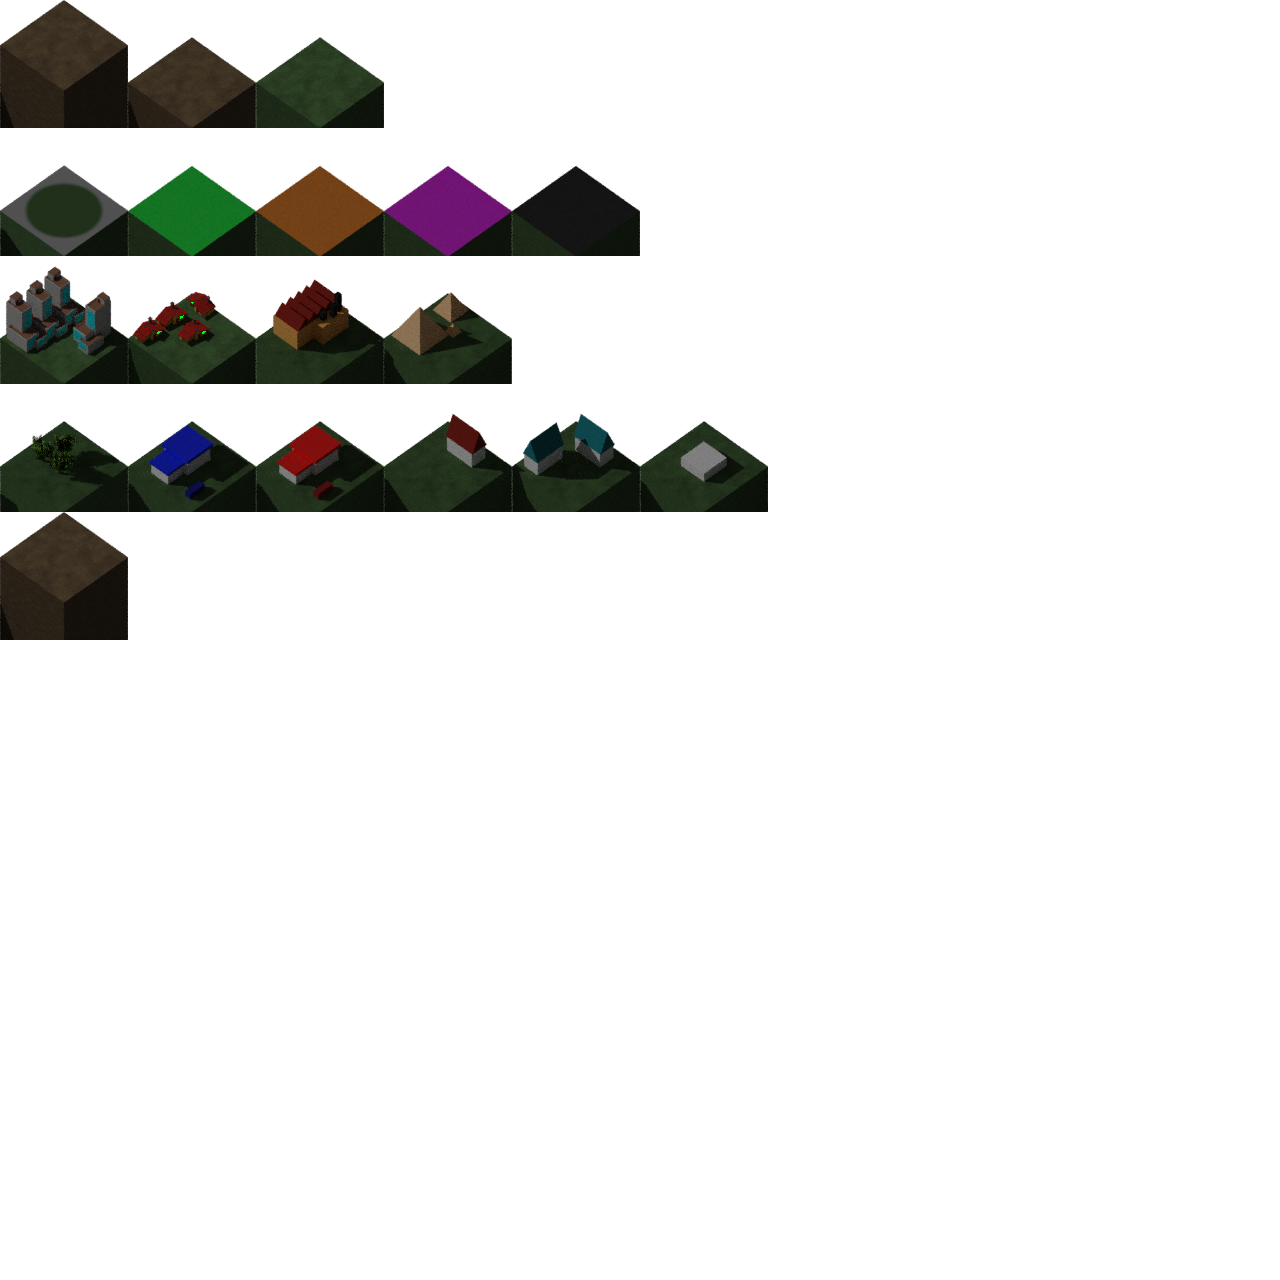
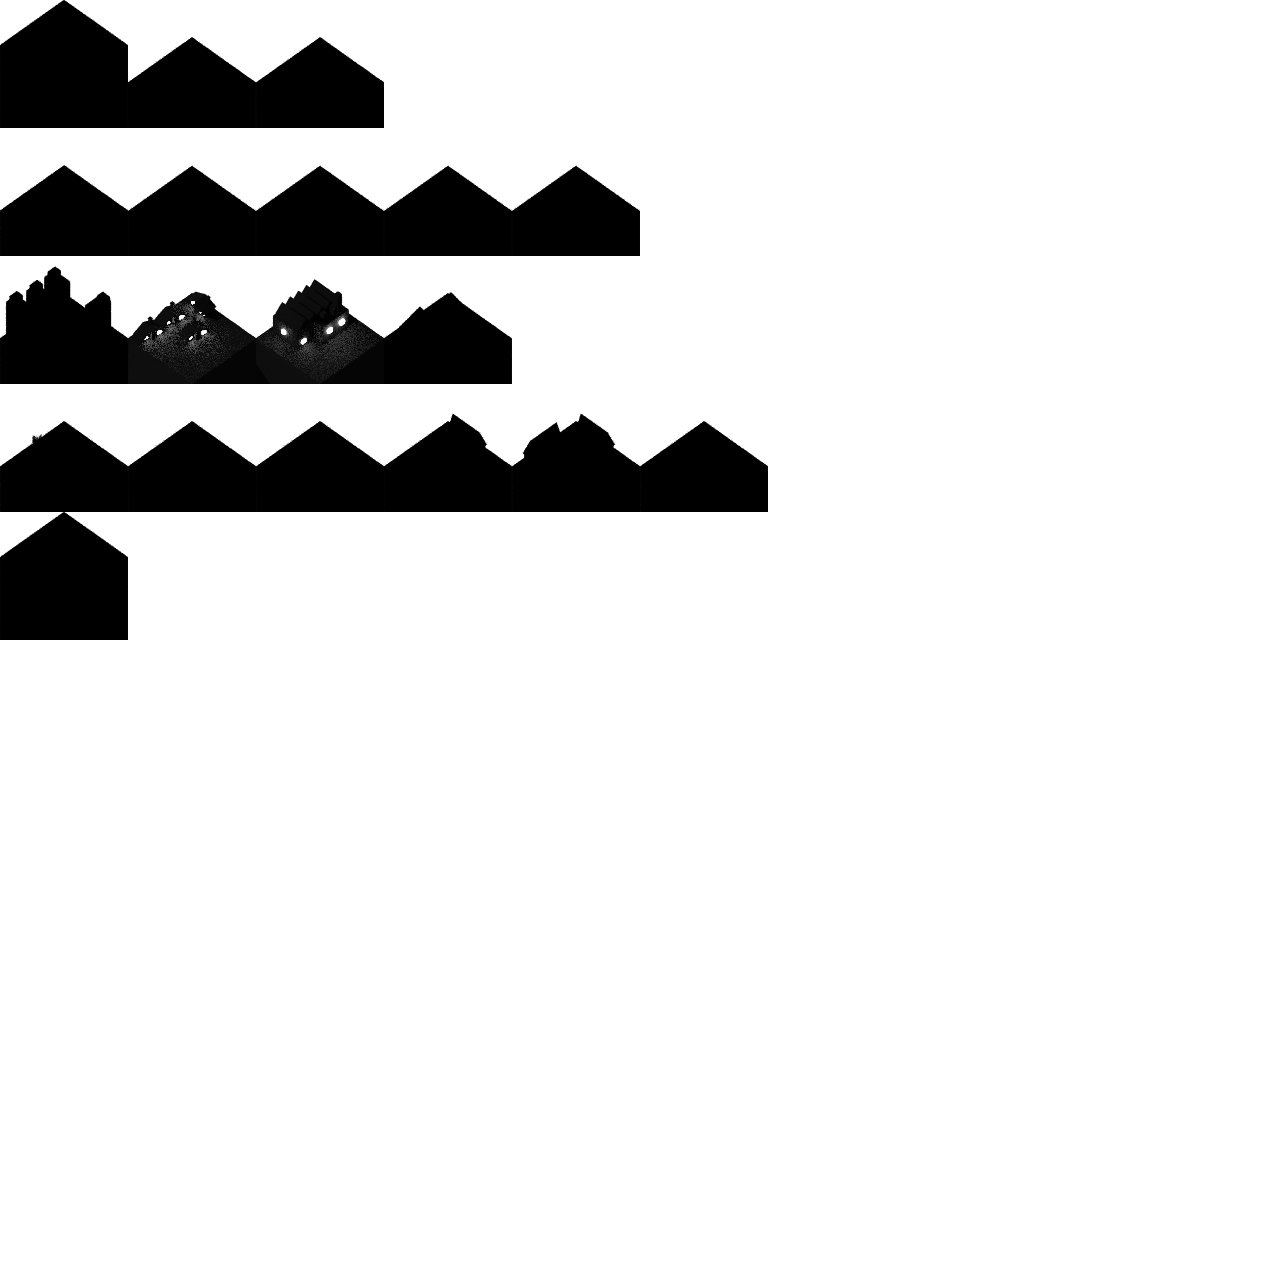
Lámpakapcsolás, kiforrott flexibilis pipelinennal

Changed region(s): [[0.0, 0.0, 0.5938, 0.5]]

diff --git a/OurCity/MyApp.cpp b/OurCity/MyApp.cpp
@@ -192,6 +192,7 @@ bool CMyApp::Init()
 	camDataUniformLoc = glGetUniformLocation(m_programID, "camData");
 	winDataUniformLoc = glGetUniformLocation(m_programID, "windowSize");
 	textureArrayLoc = glGetUniformLocation(m_programID, "textureAtlas");
+	lightMaskLoc = glGetUniformLocation(m_programID, "lightMask");
 	timeCycleLoc = glGetUniformLocation(m_programID, "time_cycle");
 
 	LoadTextures();
@@ -487,8 +488,9 @@ void CMyApp::LoadTextures()
 {
 	GLuint texture;
 	SDL_Surface* surface;
-	//surface = IMG_Load("textureatlas.png");
-	surface = IMG_Load("light-mask.png");
+	surface = IMG_Load("textureatlas.png");
+	//surface = IMG_Load("light-mask.png");
+	//surface = IMG_Load("light-mask2.png");
 	glGenTextures(1, &texture);
 	glActiveTexture(GL_TEXTURE0);
 	glBindTexture(GL_TEXTURE_2D, texture);
@@ -498,6 +500,25 @@ void CMyApp::LoadTextures()
 	glTexParameteri(GL_TEXTURE_2D, GL_TEXTURE_WRAP_S, GL_CLAMP_TO_EDGE);
 	glTexParameteri(GL_TEXTURE_2D, GL_TEXTURE_WRAP_T, GL_CLAMP_TO_EDGE);
 	glUniform1i(textureArrayLoc, 0);
+
+	SDL_FreeSurface(surface);
+
+	//return;
+	//light mask
+
+	GLuint texture2;
+	SDL_Surface* surface2;
+	//surface = IMG_Load("textureatlas.png");
+	surface2 = IMG_Load("light-mask.png");
+	glGenTextures(1, &texture2);
+	glActiveTexture(GL_TEXTURE0+1);
+	glBindTexture(GL_TEXTURE_2D, texture2);
+	glTexImage2D(GL_TEXTURE_2D, 0, GL_RGBA, surface2->w, surface2->h, 0, GL_RGBA, GL_UNSIGNED_BYTE, surface2->pixels);
+	glTexParameteri(GL_TEXTURE_2D, GL_TEXTURE_MIN_FILTER, GL_NEAREST);
+	glTexParameteri(GL_TEXTURE_2D, GL_TEXTURE_MAG_FILTER, GL_NEAREST);
+	glTexParameteri(GL_TEXTURE_2D, GL_TEXTURE_WRAP_S, GL_CLAMP_TO_EDGE);
+	glTexParameteri(GL_TEXTURE_2D, GL_TEXTURE_WRAP_T, GL_CLAMP_TO_EDGE);
+	glUniform1i(lightMaskLoc, 1);
 
 	SDL_FreeSurface(surface);
 }

diff --git a/OurCity/MyApp.h b/OurCity/MyApp.h
@@ -55,6 +55,7 @@ protected:
 	GLuint winDataUniformLoc;
 
 	GLuint textureArrayLoc;
+	GLuint lightMaskLoc;
 
 	GLuint timeCycleLoc;
 
